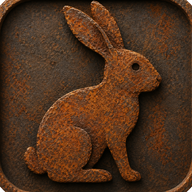
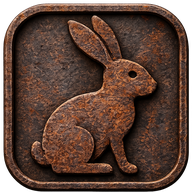
## 3 Ships in Preview
- **HTML mode slider now works** — HTML mode was hard-coded to a green tint (`text-emerald-*`). Removed that and applied `textColor` + `WebkitTextFillColor` so the text-brightness slider drives HTML mode exactly like Regular and Format modes.
- **Rabbit icon fully wired** — Downloaded your rusted-metal rabbit and auto-generated every variant: `favicon.ico` (16/32/48), `favicon.png`, `icon-16/32/96/180/192/512/1024.png`, `apple-touch-icon.png`, `icon-192-maskable.png` + `icon-512-maskable.png` (padded to 72% safe zone against `#020617` so Android's circle/squircle crops don't clip the ears), `icon-foreground-432.png` + `icon-background-432.png` for Android adaptive, and `notification-badge-96.png` for the Android status-bar silhouette. Updated `index.html` (`rel=icon`, `apple-touch-icon`), and pointed `notificationService.js` at `icon-192.png` + `notification-badge-96.png`. Bumped SW cache to `v100` so PWA users pick it up on next open.
- **Where the mode toggle is** — It sits in the **Expanded Text (fullscreen note) view**, centered directly **under the yellow toolbar** at the very top. Three small yellow icons in a segmented control: **T** = Regular Text · **T✦** (T with a sparkle) = Tags & Formatting · **</>** = HTML source. If you don't see it, tap any note's expand/fullscreen icon (the `⤢` on each note item) to enter fullscreen — the toggle is right below the header row.

Not deployed yet — preview only, per your rule.

- Next Action Items:
[…]

diff --git a/frontend/src/notes/ExpandedTextEditor.jsx b/frontend/src/notes/ExpandedTextEditor.jsx
@@ -224,10 +224,16 @@ export default function ExpandedTextEditor({
         placeholder="<p>HTML source…</p>"
         minRows={3}
         spellCheck={false}
-        className={`fs-content-input w-full bg-transparent border-0 outline-none resize-none text-sm leading-relaxed font-mono placeholder:opacity-60 ${isDark ? "text-emerald-300" : "text-emerald-800"}`}
-        // Note: html mode uses a monospace green tint by design — this
-        // does not affect Regular / Format modes, which continue to
-        // honour the per-note text brightness slider exactly as before.
+        className={`fs-content-input w-full bg-transparent border-0 outline-none resize-none text-sm leading-relaxed font-mono placeholder:opacity-60`}
+        // HTML mode now follows the per-note brightness slider just
+        // like Regular and Format modes. Uses the same WebKit belt-
+        // and-suspenders (`WebkitTextFillColor`) so mobile browsers'
+        // inherited `-webkit-text-fill-color` cascade can't beat the
+        // slider value.
+        style={{
+          color: textColor,
+          WebkitTextFillColor: textColor,
+        }}
         data-testid="fullscreen-content-input-html"
         aria-label="Note HTML source"
       />

diff --git a/frontend/public/index.html b/frontend/public/index.html
@@ -7,7 +7,11 @@
         <meta name="color-scheme" content="dark light" />
         <meta name="description" content="Iron Rabbit - Offline notes, reminders and calendar app" />
         <link rel="manifest" href="%PUBLIC_URL%/manifest.json" />
-        <link rel="apple-touch-icon" href="%PUBLIC_URL%/icon-192.png" />
+        <link rel="icon" href="%PUBLIC_URL%/favicon.ico" sizes="any" />
+        <link rel="icon" type="image/png" sizes="32x32" href="%PUBLIC_URL%/icon-32.png" />
+        <link rel="icon" type="image/png" sizes="16x16" href="%PUBLIC_URL%/icon-16.png" />
+        <link rel="apple-touch-icon" href="%PUBLIC_URL%/apple-touch-icon.png" />
+        <link rel="apple-touch-icon" sizes="180x180" href="%PUBLIC_URL%/apple-touch-icon.png" />
         <link rel="apple-touch-icon" sizes="192x192" href="%PUBLIC_URL%/icon-192.png" />
         <link rel="apple-touch-icon" sizes="512x512" href="%PUBLIC_URL%/icon-512.png" />
         <link rel="preconnect" href="https://fonts.googleapis.com" />

diff --git a/frontend/src/notifications/notificationService.js b/frontend/src/notifications/notificationService.js
@@ -179,8 +179,11 @@ class NotificationService {
     if (!this.hasPermission()) return null;
     const body = {
       body: options.body || "",
-      icon: options.icon || "/favicon.ico",
-      badge: options.icon || "/favicon.ico",
+      icon: options.icon || "/icon-192.png",
+      // Notification "badge" is a small monochrome silhouette shown in
+      // the Android status bar. Use the 96px flat icon so it renders
+      // crisply — Android will threshold to monochrome automatically.
+      badge: options.badge || "/notification-badge-96.png",
       tag: options.tag,
       requireInteraction: options.requireInteraction || false,
       silent: options.silent || false,

diff --git a/frontend/public/service-worker.js b/frontend/public/service-worker.js
@@ -9,7 +9,7 @@
 //     new SW file had been published. With HTML now always fetched
 //     network-first (and runtime-cached as a fallback for offline),
 //     every deploy propagates to users on their next page load.
-const CACHE_NAME = 'iron-rabbit-v99';
+const CACHE_NAME = 'iron-rabbit-v100';
 const RUNTIME = 'iron-rabbit-runtime-v54';
 
 // App shell — only the manifest is precached. HTML is deliberately
